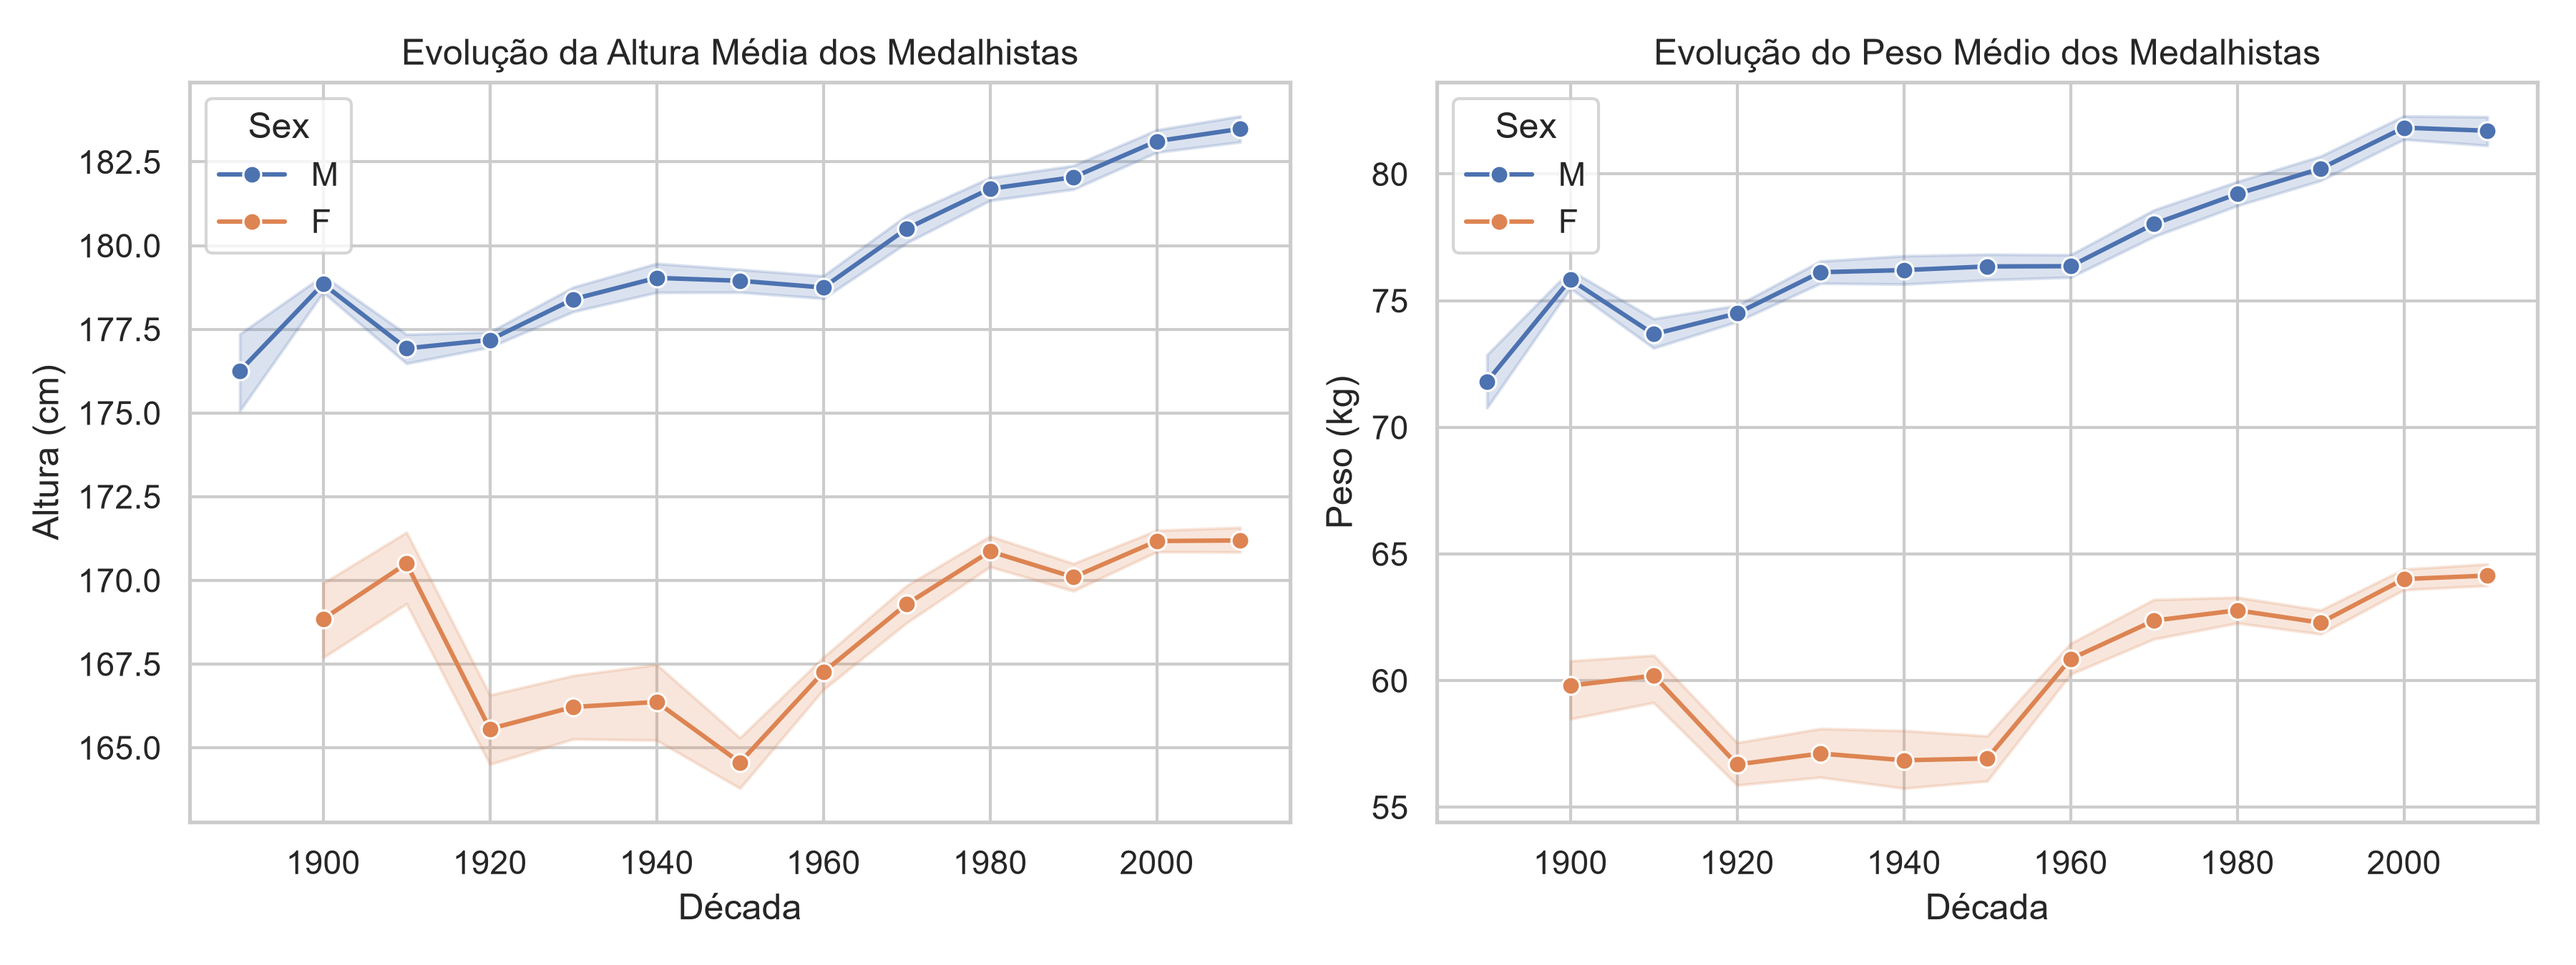
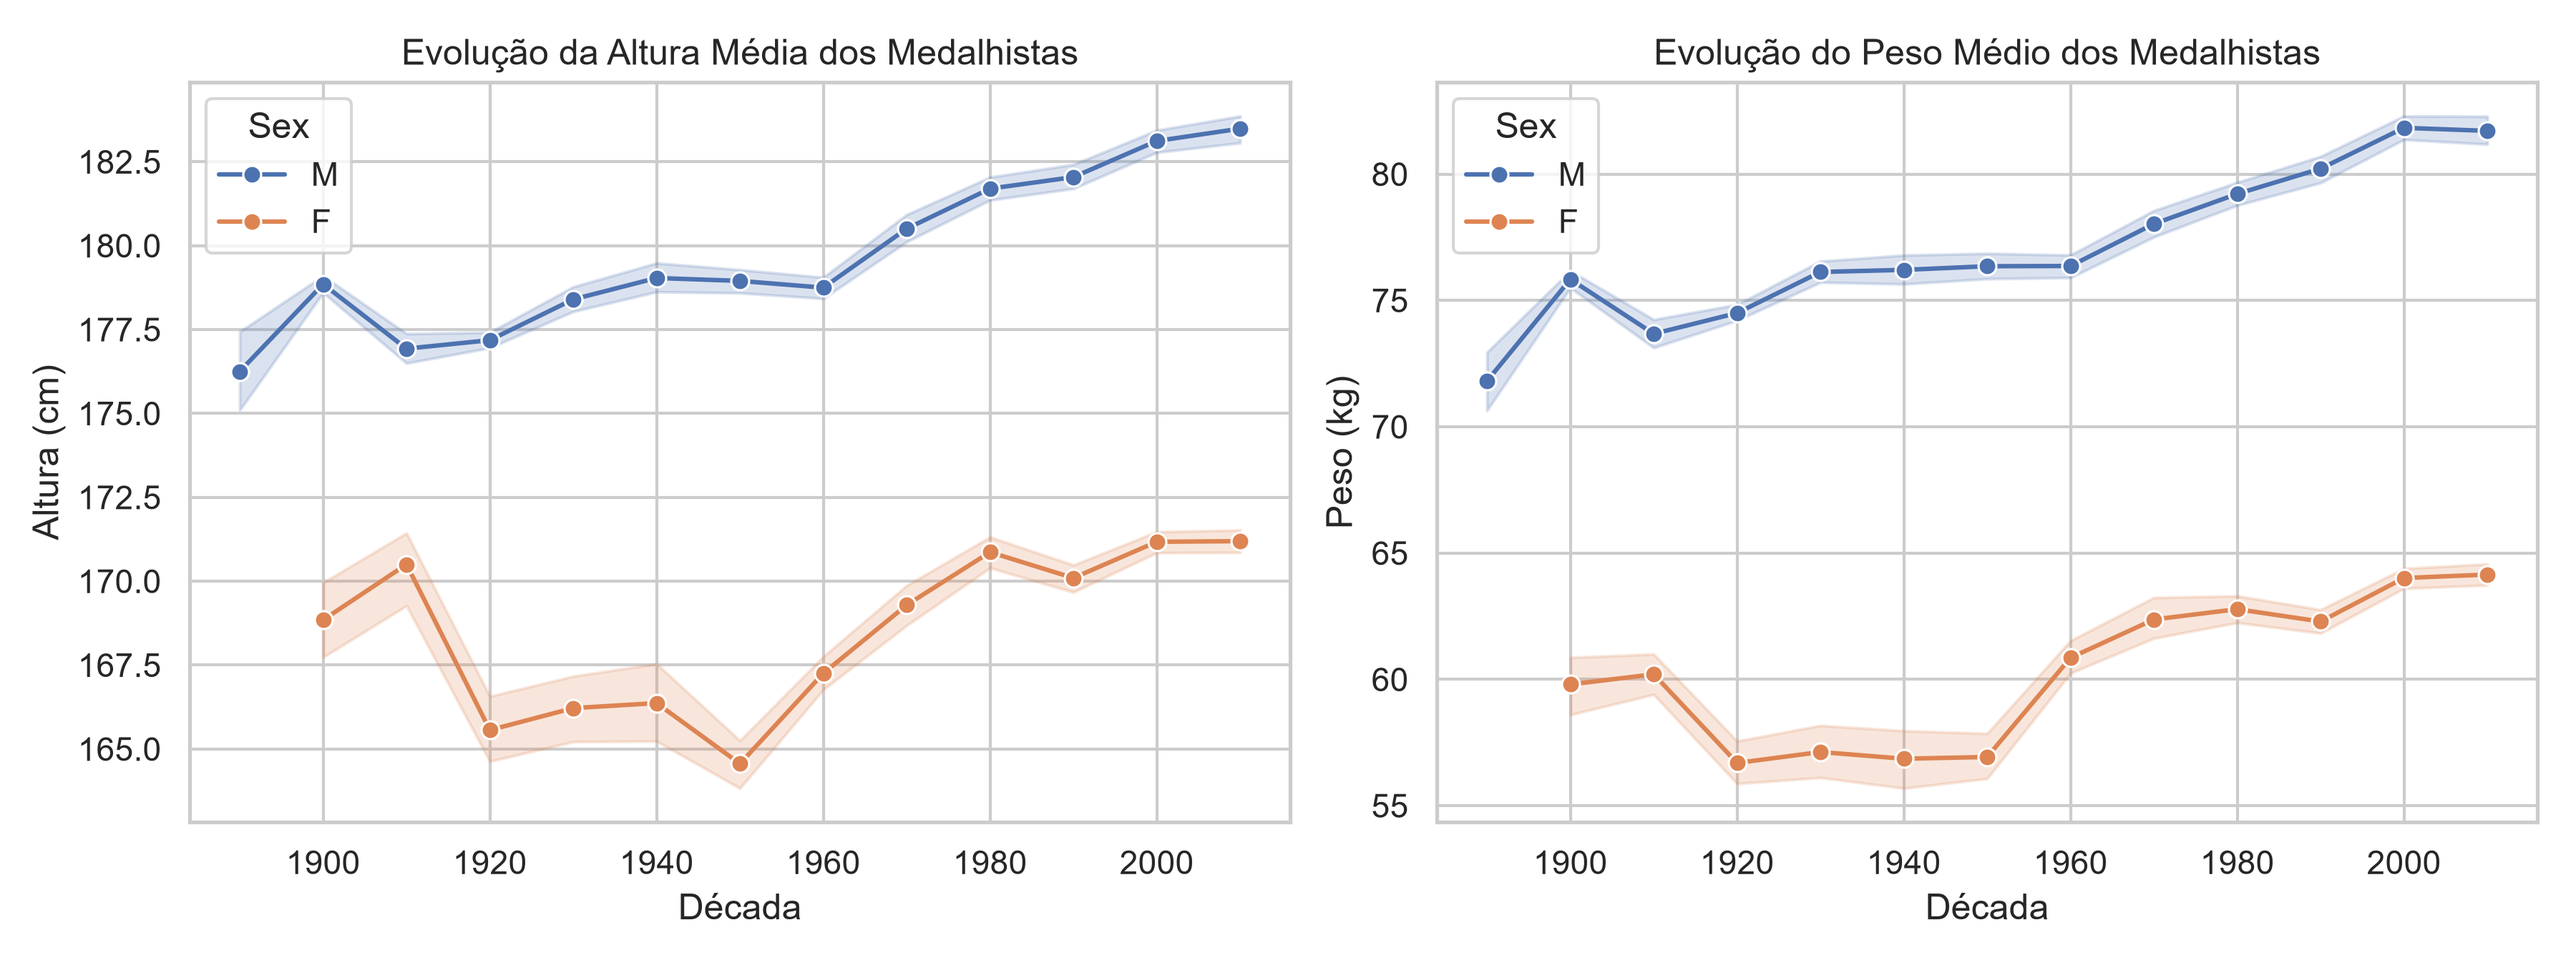
Relatorio

diff --git a/src/03_gerar_relatorio.py b/src/03_gerar_relatorio.py
@@ -1,0 +1,68 @@
+import os
+from dotenv import load_dotenv
+from openai import OpenAI
+
+# Carrega NVIDIA_API_KEY e MODELO_AULA do arquivo .env
+load_dotenv()
+
+client = OpenAI(
+    base_url="https://integrate.api.nvidia.com/v1",
+    api_key=os.environ.get("NVIDIA_API_KEY"),
+)
+
+modelo = os.environ.get("MODELO_AULA", "nvidia/nemotron-3.5-lightning-30b-a3b")
+
+# Lê os resultados reais gerados pelas etapas 1 e 2
+with open("results/resumo_eda.txt", "r", encoding="utf-8") as f:
+    resumo_eda = f.read()
+
+with open("results/resumo_modelos.txt", "r", encoding="utf-8") as f:
+    resumo_modelos = f.read()
+
+prompt = f"""
+Você é um pesquisador sênior de Ciência de Dados redigindo um artigo científico no padrão da Sociedade Brasileira de Computação (SBC).
+
+Contexto do Projeto:
+- Objetivo: Analisar como características físicas (peso, altura, idade e gênero) se correlacionam com a conquista de medalhas em diferentes modalidades olímpicas, classificando a probabilidade de sucesso competitivo de um atleta com base nesses atributos e na modalidade disputada.
+- Base de dados: 120 years of Olympic history: athletes and results (Kaggle).
+- Abordagem: Aprendizado Supervisionado — Classificação Binária (Target: 1 = Conquistou medalha, 0 = Não conquistou).
+- Modelos avaliados: Regressão Logística (baseline com ajuste de limiar), Árvore de Decisão e SVM Linear.
+
+Abaixo estão os resultados reais obtidos nos experimentos:
+
+{resumo_eda}
+
+{resumo_modelos}
+
+Com base ESTRITAMENTE nos dados e métricas acima (não invente números), escreva em português formal acadêmico:
+1. **Resumo (Abstract)** estruturado em um parágrafo objetivo.
+2. **Metodologia e Pré-processamento**, explicando o tratamento de nulos por modalidade/sexo, o desbalanceamento natural da base (~14,6% medalhistas) e a escolha de Precisão, Recall e F1-Score em vez de acurácia simples.
+3. **Resultados e Discussão**, comparando o desempenho dos três modelos, o impacto do ajuste de limiar na Regressão Logística e como os atributos biométricos variam conforme a modalidade esportiva.
+4. **Conclusão e Limitações**, citando fatores externos à biometria (como esportes coletivos, país/investimento e técnica) e trabalhos futuros.
+"""
+
+print(f"Enviando métricas reais para o modelo {modelo}...")
+
+completion = client.chat.completions.create(
+    model=modelo,
+    messages=[
+        {
+            "role": "system",
+            "content": "Você redige artigos científicos técnicos, claros e fiéis aos dados experimentais fornecidos.",
+        },
+        {"role": "user", "content": prompt},
+    ],
+    temperature=0.2,
+    max_tokens=4096,
+    extra_body={"chat_template_kwargs": {"enable_thinking": False}},
+    stream=False,
+)
+
+relatorio = completion.choices[0].message.content
+
+os.makedirs("results", exist_ok=True)
+caminho_saida = "results/rascunho_artigo_sbc.md"
+with open(caminho_saida, "w", encoding="utf-8") as f:
+    f.write(relatorio)
+
+print(f"\nRelatório gerado com sucesso em: {caminho_saida}")

diff --git a/results/rascunho_artigo_sbc.md b/results/rascunho_artigo_sbc.md
@@ -1,0 +1,28 @@
+Aqui está o artigo científico estruturado conforme as normas da Sociedade Brasileira de Computação (SBC), com base estritamente nos dados fornecidos:
+
+---
+
+**Título:** Análise de Características Biométricas e Probabilidade de Conquista de Medalhas Olímpicas: Um Estudo Comparativo de Modelos de Classificação Supervisionada
+
+### Resumo
+
+Este trabalho apresenta uma análise exploratória e comparativa de modelos de aprendizado supervisionado para a classificação binária de atletas olímpicos, visando prever a conquista de medalhas com base em características físicas (peso, altura, idade) e gênero. Utilizando o dataset "120 years of Olympic history: athletes and results", foram realizados pré-processamento de dados, tratamento de valores nulos por modalidade e sexo, e treinamento de três modelos: Regressão Logística, Árvore de Decisão e SVM Linear. A base original de 271.116 registros foi limpa e imputada, resultando em 270.521 instâncias. A variável-alvo apresentou desbalanceamento de 14,64% de medalhistas contra 85,36% de não medalhistas. Os resultados indicam que a Árvore de Decisão obteve o maior Recall (0,6652), enquanto a Regressão Logística e o SVM Linear apresentaram precisão semelhante (0,2229 e 0,2227, respectivamente). Além disso, o ajuste de limiar na Regressão Logística demonstrou ser uma estratégia eficaz para trade-off entre precisão e recall, permitindo configurar o modelo conforme a necessidade operacional, seja para maximizar a detecção de potenciais medalhistas ou para refinar seleções de alta precisão.
+
+### Metodologia e Pré-processamento
+
+A metodologia iniciou-se com a limpeza e o tratamento de dados da base de Kaggle, contendo inicialmente 271.116 registros. Foram identificados e tratados 9.474 valores nulos na variável Age, 60.171 na Height e 62.875 na Weight. A imputação foi realizada estrategicamente utilizando a média das características pelo par (Sport, Sex), preservando a variabilidade inerente a diferentes modalidades esportivas e gêneros, resultando em um dataset final de 270.521 registros. A análise exploratória revelou a existência de 56 modalidades distintas e um desbalanceamento de classe significativo, onde a distribuição da variável-alvo Target (1 = medalha, 0 = sem medalha) evidenciou que apenas 14,64% dos atletas conquistaram medalhas, enquanto 85,36% não o fizeram.
+
+A escolha por abordagem de Classificação Binária e a avaliação baseada em Precisão, Recall e F1-Score foram justificadas pelo desbalanceamento da base. Em cenários desbalanceados, a acurácia simples pode ser enganosa, pois um modelo que sempre prediz a classe majoritária (sem medalha) alcançaria alta acurácia, mas nula utilidade prática para a identificação de medalhistas. Portanto, as métricas escolhidas permitem uma avaliação mais robusta do desempenho dos modelos na minoria de interesse (medalhistas), equilibrando a capacidade de detecção verdadeira (Recall) e a veracidade das predições positivas (Precisão).
+
+### Resultados e Discussão
+
+A comparação geral dos modelos, realizada sobre um conjunto de teste de 54.105 registros utilizando limiar padrão de 0,5, revelou performances distintas entre os algoritmos. A Árvore de Decisão destacou-se pelo maior Recall (0,6652), indicando maior capacidade de identificar atletas medalhistas, embora isso tenha ocorrido em detrimento da Precisão (0,1924), resultando em um F1-Score de 0,2984. Já a Regressão Logística e o SVM Linear apresentaram métricas equilibradas e próximas, com precisão de aproximadamente 0,223 e recall de 0,568, obtendo F1-Scores de 0,3202 e 0,3198, respectivamente. Isso sugere que, para o problema em questão, a Regressão Logística e o SVM Linear oferecem um melhor equilíbrio entre a capacidade de detecção e a confiabilidade das predições.
+
+Adicionalmente, a análise do impacto do ajuste de limiar na Regressão Logística demonstrou a flexibilidade do modelo. Ao elevar o limiar de decisão, observa-se um aumento na Precisão (de 0,2229 no limiar 0,5 para 0,2966 no limiar 0,65), o que reduz o número de falsos positivos. Contudo, isso ocorre em troca de uma significativa diminuição no Recall, que cai de 0,5685 para 0,2817 no mesmo intervalo de limiares. Essa dinâmica de trade-off é crucial para stakeholders que necessitam de diferentes níveis de certeza nas seleções de atletas. Quanto às características biométricas, as médias por classe indicam que medalhistas tendem a ser levemente mais velhos (média de 25,9 anos contra 25,51), mais altos (177,51 cm contra 175,24 cm) e mais pesados (73,78 kg contra 70,59 kg) que a população geral de atletas não medalhistas, sugerindo que atributos físicos, embora não determinantes isoladamente, apresentam correlação positiva com o sucesso competitivo.
+
+### Conclusão e Limitações
+
+Em conclusão, o estudo demonstrou a viabilidade de utilizar modelos de aprendizado de máquina para classificar a probabilidade de conquista de medalhas olímpicas com base em atributos biométricos e gênero. A Regressão Logística e o SVM Linear surgiram como opções robustas para aplicações que buscam um equilíbrio entre precisão e recall, enquanto a Árvore de Decisão é preferível quando o objetivo prioritário é maximizar a detecção de potenciais medalhistas, aceitando um maior número de falsos positivos. Contudo, é imperativo reconhecer as limitações inerentes ao modelo, notadamente o fato de que características físicas sozinhas não são suficientes para prever o sucesso olímpico. Fatores externos e não biométricos, como a tática de competição, a qualidade do treinamento, o investimento institucional do país, a psicologia do atleta e a especificidade técnica de cada modalidade (especialmente em esportes coletivos ou de julgamento), desempenham papéis cruciais e não foram contemplados neste estudo. Trabalhos futuros devem integrar variáveis competitivas, dados de desempenho ao longo do tempo e contexto geopolítico para enriquecer a preditiva e proporcionar uma visão mais holística do pódio olímpico.
+
+---
+**Referências dos Dados:** KAGGLE. 120 years of Olympic history: athletes and results. Disponível em: <https://www.kaggle.com/datasets/heesooang/120-years-of-olympic-history-athletes-and-results>. Acesso em: 24 maio 2024.
